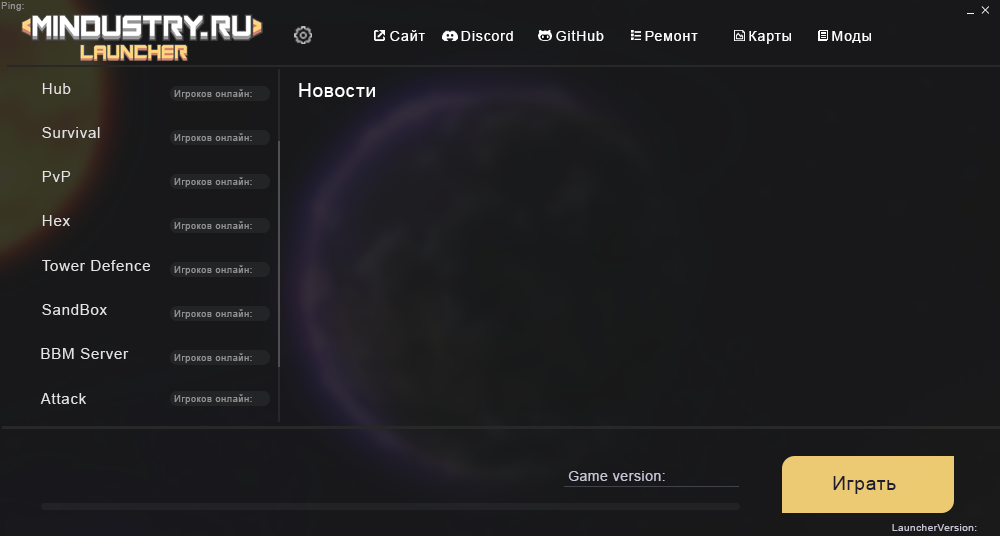
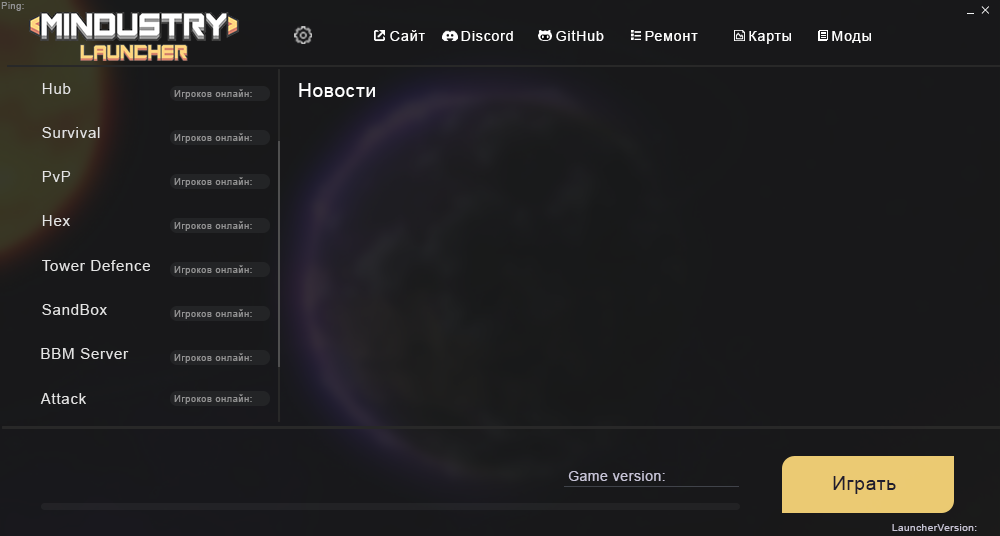
Update 4.0

Changed region(s): [[0.0, 0.0, 0.279, 0.0896]]

diff --git a/Launcher v2/Form1.cs b/Launcher v2/Form1.cs
@@ -233,7 +233,7 @@ namespace Launcher_v2
         #region -- Проверить пинг и статус -- 
         private void OnlStatus_Tick(object sender, EventArgs e)
         {
-            TimerOnlStatus.Interval = 15000;
+            TimerOnlStatus.Interval = 300000;
             ////////////////////////////////////////////////////////////////////////////////////////////////////////////////////////////////
             //Check Online
             IPStatus status = IPStatus.TimedOut;
@@ -288,7 +288,7 @@ namespace Launcher_v2
 
             //Ping
             List<string> serversList = new List<string>();
-            serversList.Add("Mindustry.ru"); //address
+            serversList.Add("EasyPlay.su"); //address
             Ping ping = new System.Net.NetworkInformation.Ping();
             PingReply pingReply = null;
 
@@ -522,7 +522,7 @@ namespace Launcher_v2
             DialogResult dialogResult = MessageBox.Show("Вы хотите перейти в Discord Mindustry.ru?", "Подтвердите действие!", MessageBoxButtons.YesNo);
             if (dialogResult == DialogResult.Yes)
             {
-                System.Diagnostics.Process.Start("https://ds.mindustry.ru/");
+                System.Diagnostics.Process.Start("https://ds.easyplay.su/");
             }
             else if (dialogResult == DialogResult.No)
             {
@@ -537,7 +537,7 @@ namespace Launcher_v2
             DialogResult dialogResult = MessageBox.Show("Вы хотите перейти перейти на сайт?", "Подтвердите действие!", MessageBoxButtons.YesNo);
             if (dialogResult == DialogResult.Yes)
             {
-                System.Diagnostics.Process.Start("https://mindustry.ru/");
+                System.Diagnostics.Process.Start("https://easyplay.su/");
             }
             else if (dialogResult == DialogResult.No)
             {
@@ -693,7 +693,7 @@ namespace Launcher_v2
             DialogResult dialogResult = MessageBox.Show("Вы хотите перейти перейти в GitHub?", "Подтвердите действие!", MessageBoxButtons.YesNo);
             if (dialogResult == DialogResult.Yes)
             {
-                System.Diagnostics.Process.Start("https://github.com/MindustryRu/Game-Launcher");
+                System.Diagnostics.Process.Start("https://github.com/EasyPlaySu/Game-Launcher");
             }
             else if (dialogResult == DialogResult.No)
             {

diff --git a/Launcher v2/Properties/Resources.Designer.cs b/Launcher v2/Properties/Resources.Designer.cs
@@ -19,7 +19,7 @@ namespace Launcher_v2.Properties {
     // с помощью такого средства, как ResGen или Visual Studio.
     // Чтобы добавить или удалить член, измените файл .ResX и снова запустите ResGen
     // с параметром /str или перестройте свой проект VS.
-    [global::System.CodeDom.Compiler.GeneratedCodeAttribute("System.Resources.Tools.StronglyTypedResourceBuilder", "4.0.0.0")]
+    [global::System.CodeDom.Compiler.GeneratedCodeAttribute("System.Resources.Tools.StronglyTypedResourceBuilder", "16.0.0.0")]
     [global::System.Diagnostics.DebuggerNonUserCodeAttribute()]
     [global::System.Runtime.CompilerServices.CompilerGeneratedAttribute()]
     internal class Resources {

diff --git a/README.md b/README.md
@@ -10,7 +10,7 @@
 - Buttons (Site\Discord\GitHub\Client/Launcher Repair\Maps\Mods
 - Display ping to servers
   
-For all questions, write to Discord: https://discord.mindustry.ru/
+For all questions, write to Discord: https://ds.easyplay.su/
 ![Discord Shield](https://discordapp.com/api/guilds/658670734222163989/widget.png?style=shield)
   
 </details>
@@ -25,7 +25,7 @@ For all questions, write to Discord: https://discord.mindustry.ru/
 - Кнопки (Сайт\Discord\GitHub\Ремонт клиента/лаунчера\Карты\Моды
 - Отображение пинга до серверов
 
-По всем вопросам пишите в Discord: https://discord.mindustry.ru/
+По всем вопросам пишите в Discord: https://ds.easyplay.su/
 ![Discord Shield](https://discordapp.com/api/guilds/658670734222163989/widget.png?style=shield)
   
 </details>
@@ -33,11 +33,11 @@ For all questions, write to Discord: https://discord.mindustry.ru/
 ![Logo](img/Logo_Launcher.png "Launcher screenshot")
 
 # Developers
-- [MindustryRu](https://github.com/MindustryRu) (Head Developer)
+- [EasyPlaySu](https://github.com/EasyPlaySu) (Head Developer)
 
 # Helpers
 - [Fatonndev](https://github.com/Fatonndev)
 - [MemFaceGo](https://github.com/MemFaceGo)
 
 # Discord Server Banner
-<a href="https://discord.mindustry.ru/"><img src="https://discordapp.com/api/guilds/658670734222163989/widget.png?style=banner4" alt="Discord Banner 4"/></a>
+<a href="https://ds.easyplay.su/"><img src="https://discordapp.com/api/guilds/658670734222163989/widget.png?style=banner4" alt="Discord Banner 4"/></a>
